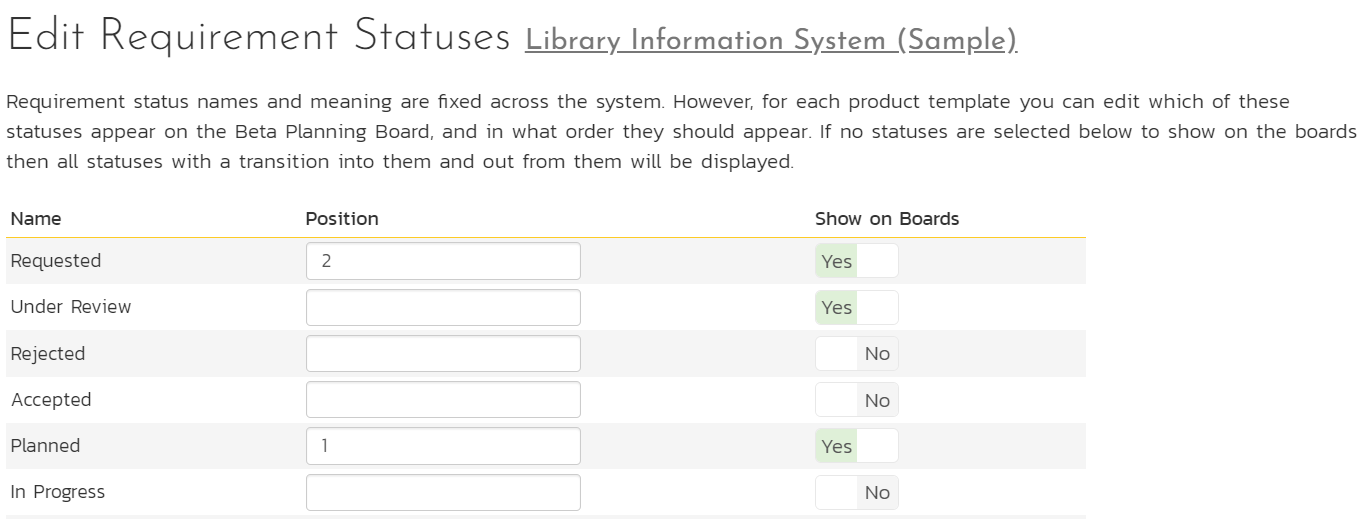
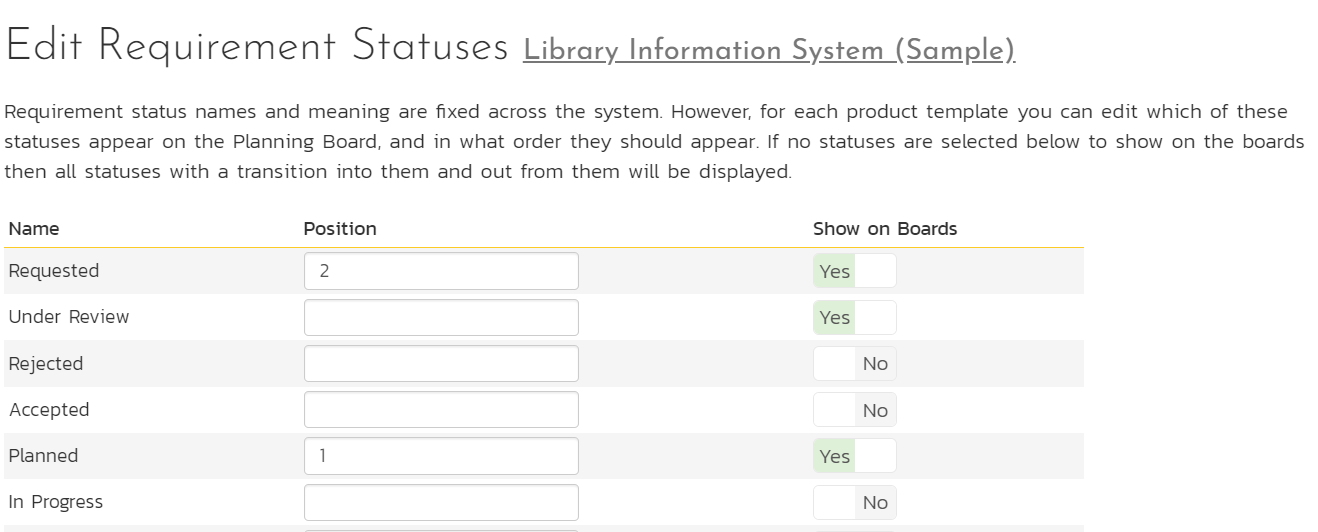
updates requirement status admin page

diff --git a/docs/Spira-Administration-Guide/Template-Requirements.md b/docs/Spira-Administration-Guide/Template-Requirements.md
@@ -16,10 +16,7 @@ Note that you can either enter the hexadecimal RRGGBB code for the color or use 
 You can't delete an existing requirement importance, but to prevent it appearing in any drop-down-lists, change its active flag to "No" and click "Save". To add a new requirement importance, click the "Add" button and a new row will be added to the list which you can now edit.
 
 ## Statuses
-!!! info "In beta, available in SpiraTeam and SpiraPlan only"
-    System admins [can enable](../../Spira-Administration-Guide/System/#general-settings) beta functionality across the application for their users from the System Admin > General Settings page.
-
-Requirement statuses are fixed. Admins cannot add or rename requirement statuses. The requirement status page lets template admins manage how these statuses are displayed to users on relevant planning boards (currently the beta planning board only).
+Requirement statuses are fixed. Admins cannot add or rename requirement statuses. The requirement status page lets template admins manage how these statuses are displayed to users on relevant planning boards.
 
 This page shows every requirement status (in the same order you will see them on the requirement workflow pages). For each status you can:
 
@@ -30,9 +27,9 @@ By default, no statuses have a position or are toggled to show. In this state, t
 
 If you turn on one or more statuses to show on boards, then those statuses will always show (whether or not they have transitions). Statuses that show and do not have a position are shown before those that do have a position. In the example below, the following statuses will show in the following order:
 
-1. Under Review (this is shown first because it does not have a position set)
-2. Planned (because it has a position of 1)
-2. Requested (because it has a position of 2)
+- Under Review (this is shown first because it does not have a position set)
+- Planned (because it has a position of 1)
+- Requested (because it has a position of 2)
 
 ![](img/Template_Requirements_Statuses.png)
 
